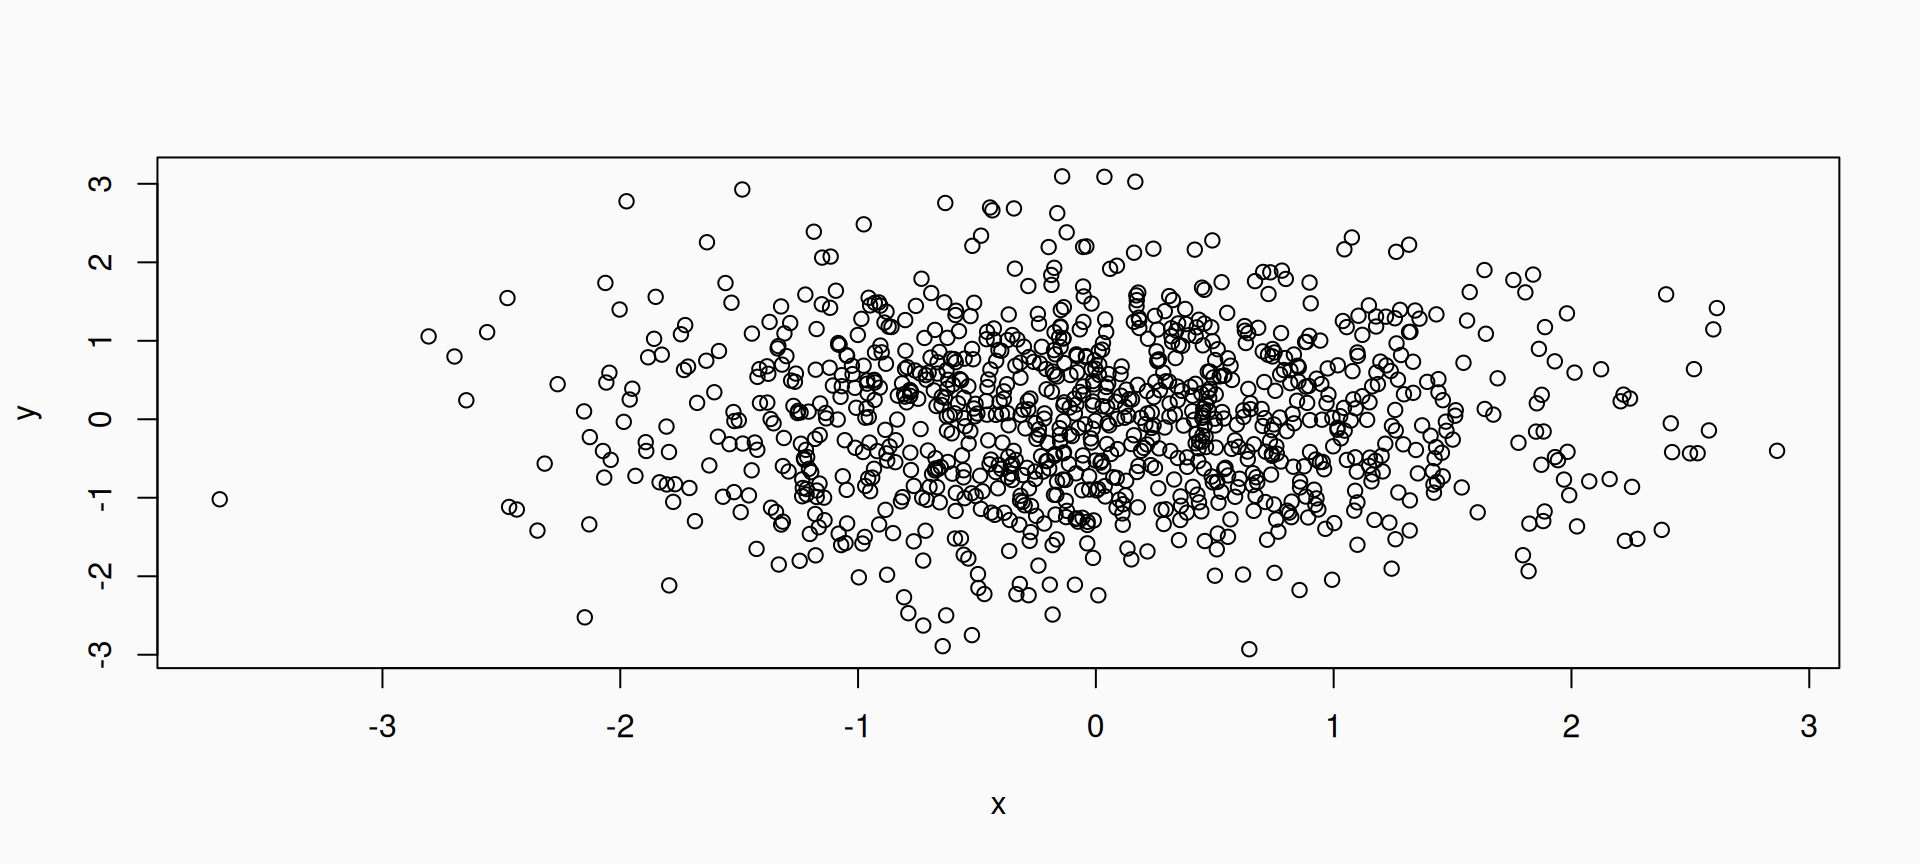
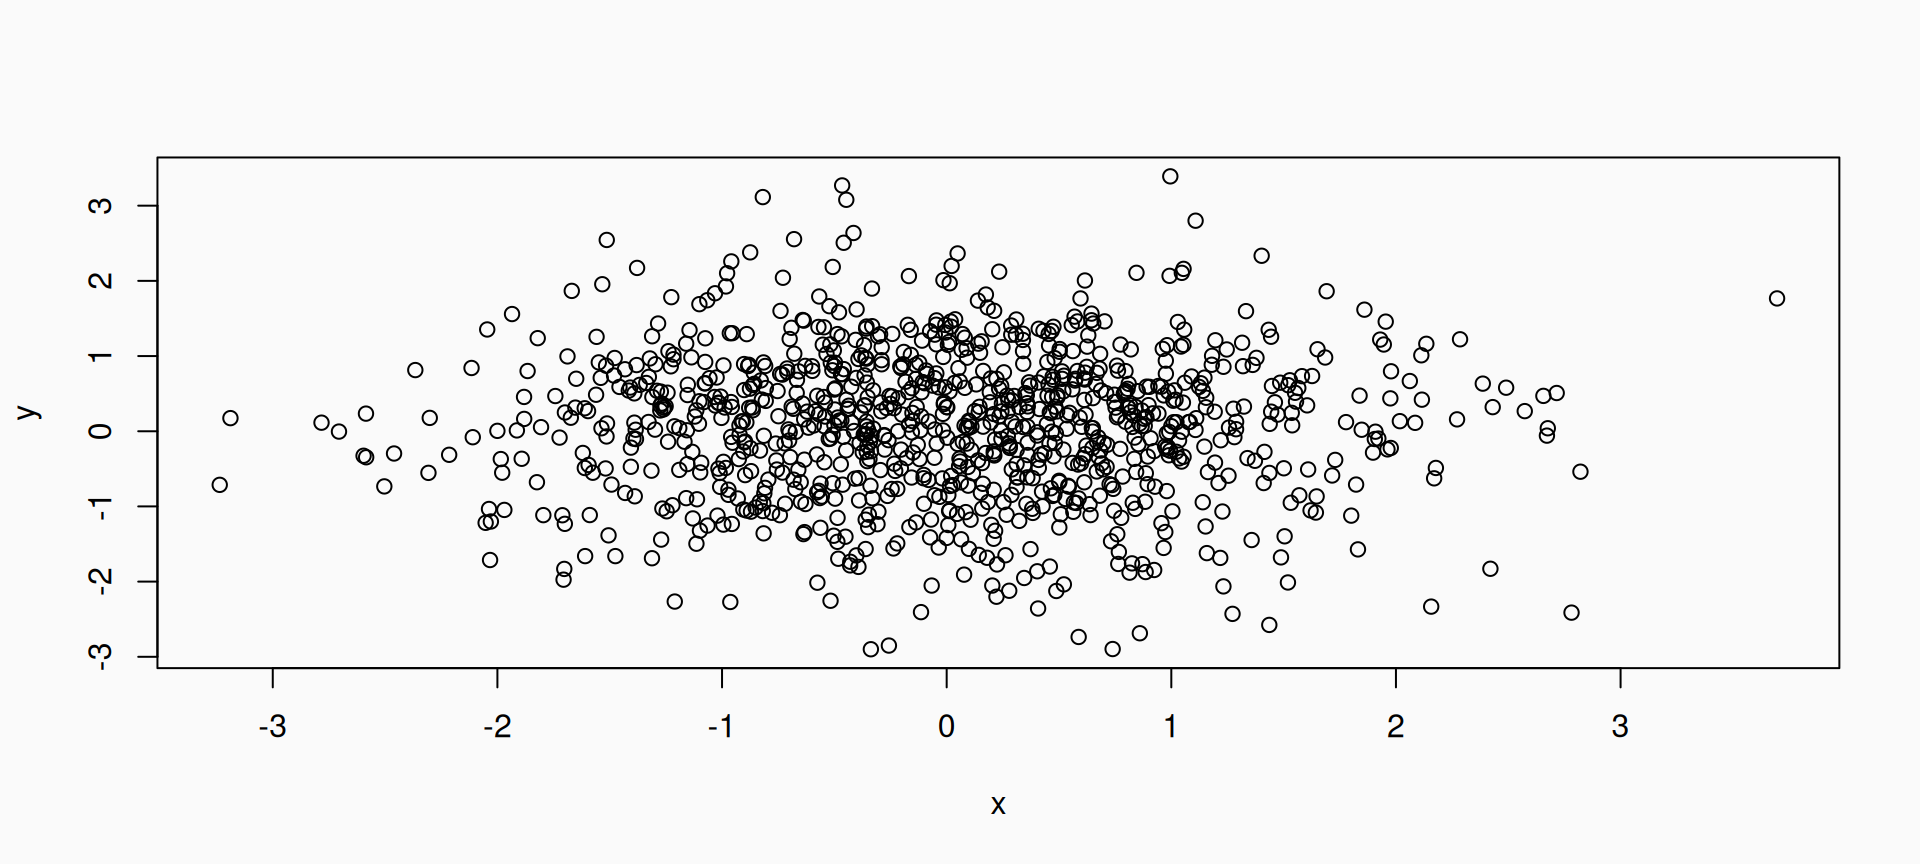
Fix paths and creates folders to ensure the website works

diff --git a/inst/quarto/gb-slides.html b/inst/quarto/gb-slides.html
@@ -103,9 +103,9 @@
     code span.vs { color: #20794d; } /* VerbatimString */
     code span.wa { color: #5e5e5e; font-style: italic; } /* Warning */
   </style>
-  <link rel="stylesheet" href="gb-slides_files/libs/revealjs/dist/theme/quarto-19f90d46a7d7b55cc2a475abd7d89113.css">
-  <link rel="stylesheet" href="_extensions/ucl/fonts.css">
-  <link rel="stylesheet" href="./assets/common.css">
+  <link rel="stylesheet" href="gb-slides_files/libs/revealjs/dist/theme/quarto-9939cc1c745a8e53c3914db3a274c595.css">
+  <link rel="stylesheet" href="./css/fonts.css">
+  <link rel="stylesheet" href="./css/common.css">
   <link href="gb-slides_files/libs/revealjs/plugin/quarto-line-highlight/line-highlight.css" rel="stylesheet">
   <link href="gb-slides_files/libs/revealjs/plugin/reveal-menu/menu.css" rel="stylesheet">
   <link href="gb-slides_files/libs/revealjs/plugin/reveal-menu/quarto-menu.css" rel="stylesheet">
@@ -275,7 +275,7 @@
   <link href="gb-slides_files/libs/rstudio_leaflet-1.3.1/rstudio_leaflet.css" rel="stylesheet">
   <script src="gb-slides_files/libs/leaflet-binding-2.2.3/leaflet.js"></script>
   <script type="ojs-define">
-  {"contents":[{"name":"actors","value":{"x":[-0.736550205757108,-0.703498615608773,-0.0555366844943888,-0.469748671768782,0.890901311254661,-0.242656248537264,-1.47663588523555,-0.946105785716161,-0.466473756550867,-0.0698744838353341,-1.37761802606163,0.144414760507318,-0.571444424079374,-1.17857842815937,-0.426692596543949,0.446705983605372,0.015471329937579,-0.474022176369689,-0.702700672251499,-1.64554501449226,-0.808950608807856,0.920300246887119,-0.603099092719225,0.589236039009695,1.21875822986642,1.35869162781285,1.72992521144808,2.13216848171943,0.832398423917676,-0.167707367143835,-0.408385660019645,-0.130496457511745,0.03616699599139,0.665300327207432,-2.62680187000163,0.0948449998289357,0.132950625575523,-0.966784104941283,0.751711295937609,-0.143663825101314,-1.0624561139652,-1.89241837341819,0.861168971440449,0.674400964725732,-0.434638169185952,0.936292533936455,-0.191053103199944,-0.705392070033884,-0.624561316783875,1.62483185183463,0.0321619107350223,0.650483477157282,-0.842050733560789,-0.752825720513799,-0.942082075650477,-0.8013515521252,1.40379217660434,0.812772851501177,1.11677456829575,-2.77570744047739,0.0273209110662436,0.760536804774313,-1.47392481754284,0.56267887483159,-0.179675573113048,-1.32333789016428,0.269521997201982,-0.217254958537265,-1.34434068235522,2.60144558577865,0.296747560516421,0.73593058186674,-0.161217076091041,-1.30653809555564,-0.505799654976852,0.287065497655725,-1.64062017820723,-1.25373883887425,0.218367633013812,0.621660334360687,0.188527785958609,0.0358521566112222,0.275069319206628,-0.718316567314086,0.804715571430734,0.345051761728505,-1.13662337215155,0.538329228379607,0.529767318851149,-1.33203909871606,-0.572042917281872,0.69839798197017,-0.0916732015260699,-0.396499384501032,0.655381162972911,-0.250620586851292,1.24195524985814,-0.411912915366062,0.382602882578845,1.8052065094708],"y":[-0.655453570984461,-0.848803029839779,-0.662260460324178,0.549356793741619,1.63874062639711,0.0249570278467064,1.59773859175283,-0.248723376209598,0.0107414170812199,-0.993340627190834,0.476913844518693,-0.533387006106391,-0.103162064291925,-0.485019690761483,0.308498986248391,0.117958811316265,0.194934850276428,0.936019078290492,-0.473080156357277,0.889905330174019,0.0436915327332632,-1.42310583788905,0.391442607071887,0.19864016023194,-1.69463001423204,-1.02931882939113,-0.581440289241653,1.64731564260344,0.182573720072379,1.02157080690467,-0.444039286351926,0.171066637084031,0.181207446796089,-0.40924815880317,-0.472717577480706,0.619084104100532,-0.0465271703250968,0.322515795545041,1.37560954556494,-0.522466225723521,-1.49901108894078,0.085083288957265,-0.613534543863203,-0.0781652589972574,0.853713956838748,2.1227619850649,-1.24098337049543,-0.0185188366282658,0.378699938646877,-1.8419233885409,-0.638562606024193,-0.234297488558761,-0.622569599482852,0.890510712193449,1.07660905462201,-0.147715022313349,-0.0251367492899564,0.241311039008931,-1.4121516066268,-0.315047055853211,-0.0748924999832279,-0.537977457848694,0.68234620250762,0.76824810543491,-0.997636985427926,0.464638756158423,1.08735488558593,-0.0406032640505595,-0.510506337103913,-0.555308633934189,-0.0685730789098897,1.29134662967927,-0.0317314801696395,-0.436722626784667,0.204144008807643,-0.0171652817874974,-0.0405176864414505,-0.24972416488519,-0.453645231819399,-2.18668432952992,-0.18045349953184,0.341671800867748,0.862724132180527,-0.883086551345485,0.599824832761929,-0.416156828643419,-0.0573157619121054,1.70938369894748,1.11520994611798,1.17402595969544,0.450090131424569,-1.51789800627509,-0.0862894937898453,0.769217000271055,2.44385365153038,0.530402116822762,-0.244892939458025,1.03178182493988,-0.869301902474661,0.0280849374179542]}}]}
+  {"contents":[{"name":"actors","value":{"x":[1.40259067649637,-0.429290095880401,0.880014613849481,1.33076868835439,0.0165125960818773,0.834608227601314,-1.27199283909243,-0.675307987673492,0.984920109909569,0.205013866658325,0.436883246527184,-0.480118170167845,0.17078408064019,-0.843306758294193,2.79417150572238,0.129154553415691,1.65482775519942,0.40164109893743,0.407831864022557,1.18428846444684,0.500669900722019,-0.231591264011183,0.241857436752451,1.38940654187094,0.498144994441498,0.80241084102092,-0.655177597149728,1.36108104824385,0.237884845616394,-0.760293728242877,0.934089328340017,-0.301442809862238,0.123952000520464,-0.810634595988314,-0.270833310245173,-0.849241007975501,-1.37286346829487,-0.649254200941535,0.954365591330467,-1.15469442750616,-0.832691075001616,-1.43597230132132,1.4454114748924,-1.46542906954377,-0.509216926206262,1.72845435114503,-1.08315927863093,0.832224309881029,-1.17112248436116,-1.53347262951591,-0.639662256643634,-2.12629642241883,1.13573015987553,-1.16201055505231,0.323071815143787,1.44059959812549,-0.933183642666509,-0.616057610197672,0.171433192636659,-0.469654210176934,1.95360838762584,-1.49128652059701,0.508704751003872,-0.466179901510649,0.979711198167577,-1.69856695778659,0.171257116826888,-1.36321842412852,-0.0776882863660992,-2.44563676628124,-0.399037427510818,0.898301810431688,0.580334407190919,0.0577209691799459,-0.855596914793349,0.344861451070325,1.38214579275784,1.44908831284464,-1.45775224548338,-0.309990480290062,0.552662309592955,0.26482050968042,-1.72645217604226,-0.908533342057977,0.198997010938386,-0.764111845595373,2.118811624569,-1.64122119242861,1.02784915535353,-1.06905657022526,-0.433657697901798,-0.938521242727666,-0.975899700388979,2.63285434745172,0.432798508778444,-1.58731447870077,-0.84221396953418,-0.306870069358808,-0.776307307123774,1.64463491923664],"y":[1.48582197967844,2.24521238376898,1.68754279133501,-1.16764728344325,0.248900903240166,-0.551590190197406,-0.0454934942320415,-1.15200943025356,0.116980755065336,0.89200191194945,0.493694823316231,-0.130911342151308,-0.623278071818439,0.467655567900305,-0.0621941445947301,-0.654553775326011,-0.242204920044664,1.23562481421172,-0.188783695364598,-2.33392997422634,-1.42556410755436,0.101539213175766,-1.5327211656713,-2.16456529039335,0.736113536291248,0.162622372129609,-0.472099740850184,0.9716020421598,-0.423145537808301,-1.73546571094963,0.329319213619775,0.468153743342591,-0.979962429644486,-1.18124263603024,-1.21013347203329,2.07719925950183,-0.218446876040785,1.97401210507674,1.05166634742923,-0.970676897386709,1.09909007664124,-0.480435436739836,1.2236047214754,-0.148177007705251,-2.34305739725815,-0.284750311774731,0.0521922255111048,0.767773119184444,-0.766689737480126,2.41740643203387,1.18297010672968,1.43841004933078,0.266354461937964,0.322619787614754,-0.305250454232559,0.883002106499914,0.366097681979564,0.834383907731318,-1.33975348856876,-0.487449363820905,1.32500622085749,0.338147468942907,-1.00539244337529,0.430215036486785,-1.98415452413105,-0.0904298238158537,-1.57307597076032,0.743214329242711,0.423291698224595,1.4742270849975,0.979687159537022,1.14555841707247,0.711823450999904,-1.09143523588454,-1.33533006661796,-1.10604409368111,-0.783216725456688,-0.301200333391787,0.719255681993729,-1.12857478933018,-0.0242704631616405,-0.515163146230526,0.00182471381594631,-1.14434001543185,-0.230379218540184,-0.828055347478726,-2.01121469526061,0.535333453907686,-0.731236282257347,-0.494103091324649,0.266010005357946,-2.01854356069723,1.45989520506484,1.0220609421019,0.648953447140247,-0.44066048520138,1.77442797579147,0.546774253664151,0.553172628697816,-0.0167215991998903]}}]}
   </script>
 </head>
 <body class="quarto-light">
@@ -307,7 +307,7 @@
 
 <br>
 
-<p style="margin-top:3vw!important;" class="date-conference">31 January 2026</p>
+<p style="margin-top:3vw!important;" class="date-conference">19 February 2026</p>
 
 <p style="margin:0px;" class="date-conference">The name of the session</p>
        <p style="margin:0px;" class="date-conference">The name of the conference, Where it is</p>
@@ -508,7 +508,7 @@ to the end of the slide, to ensure that the footer doesn’t interfere with the 
 <h1>Section title slide</h1>
 <p>Setting the background colour to a dark colour automatically changes the colour of the text to make it visible over a dark background!</p>
 <div class="footer-nobg">
-<p>© Gianluca Baio (UCL) &nbsp; | &nbsp; <a href="https://www.linkedin.com/in/gianluca-baio/" title="Follow me on LinkedIn"><i class="fa-brands fa-linkedin" aria-label="linkedin"></i></a> &nbsp; <a href="https://mas.to/@gianlubaio" title="Follow me on Mastodon"><i class="fa-brands fa-mastodon" aria-label="mastodon"></i></a> &nbsp; <a href="https://github.com/giabaio" title="Check out my repos"><i class="fa-brands fa-github" aria-label="github"></i></a> &nbsp; <a href="mailto:g.baio@ucl.ac.uk" title="Email me"><i class="fa-solid fa-envelope" aria-label="envelope"></i></a> &nbsp; <a href="https://gianluca.statistica.it" title="Visit my website"><i class="fa-brands fa-firefox" aria-label="firefox"></i></a> &nbsp; | &nbsp; A short title &nbsp; | &nbsp; A shorter title of the conference &nbsp; | &nbsp; 31 Jan 2026 </p>
+<p>© Gianluca Baio (UCL) &nbsp; | &nbsp; <a href="https://www.linkedin.com/in/gianluca-baio/" title="Follow me on LinkedIn"><i class="fa-brands fa-linkedin" aria-label="linkedin"></i></a> &nbsp; <a href="https://mas.to/@gianlubaio" title="Follow me on Mastodon"><i class="fa-brands fa-mastodon" aria-label="mastodon"></i></a> &nbsp; <a href="https://github.com/giabaio" title="Check out my repos"><i class="fa-brands fa-github" aria-label="github"></i></a> &nbsp; <a href="mailto:g.baio@ucl.ac.uk" title="Email me"><i class="fa-solid fa-envelope" aria-label="envelope"></i></a> &nbsp; <a href="https://gianluca.statistica.it" title="Visit my website"><i class="fa-brands fa-firefox" aria-label="firefox"></i></a> &nbsp; | &nbsp; A short title &nbsp; | &nbsp; A shorter title of the conference &nbsp; | &nbsp; 19 Feb 2026 </p>
 </div>
 </section>
 <section id="code-chunk-and-output-side-by-side" class="slide level2" data-auto-animate="true">
@@ -1879,8 +1879,8 @@ a_{21}&amp; =b_{21}&amp;
 <p>Include Jupyter widgets and htmlwidgets in your presentations</p>
 <div class="cell" data-layout-align="center">
 <div class="cell-output-display">
-<div class="leaflet html-widget html-fill-item" id="htmlwidget-0fd8a9ec5437bb004293" style="width:55%;height:480px;"></div>
-<script type="application/json" data-for="htmlwidget-0fd8a9ec5437bb004293">{"x":{"options":{"crs":{"crsClass":"L.CRS.EPSG3857","code":null,"proj4def":null,"projectedBounds":null,"options":{}}},"calls":[{"method":"addTiles","args":["https://{s}.tile.openstreetmap.org/{z}/{x}/{y}.png",null,null,{"minZoom":0,"maxZoom":18,"tileSize":256,"subdomains":"abc","errorTileUrl":"","tms":false,"noWrap":false,"zoomOffset":0,"zoomReverse":false,"opacity":1,"zIndex":1,"detectRetina":false,"attribution":"&copy; <a href=\"https://openstreetmap.org/copyright/\">OpenStreetMap<\/a>,  <a href=\"https://opendatacommons.org/licenses/odbl/\">ODbL<\/a>"}]},{"method":"addMarkers","args":[-36.852,174.768,null,null,null,{"interactive":true,"draggable":false,"keyboard":true,"title":"","alt":"","zIndexOffset":0,"opacity":1,"riseOnHover":false,"riseOffset":250},"The birthplace of R",null,null,null,null,{"interactive":false,"permanent":false,"direction":"auto","opacity":1,"offset":[0,0],"textsize":"10px","textOnly":false,"className":"","sticky":true},null]}],"limits":{"lat":[-36.852,-36.852],"lng":[174.768,174.768]}},"evals":[],"jsHooks":[]}</script>
+<div class="leaflet html-widget html-fill-item" id="htmlwidget-6cfc77fe81408a48afec" style="width:55%;height:480px;"></div>
+<script type="application/json" data-for="htmlwidget-6cfc77fe81408a48afec">{"x":{"options":{"crs":{"crsClass":"L.CRS.EPSG3857","code":null,"proj4def":null,"projectedBounds":null,"options":{}}},"calls":[{"method":"addTiles","args":["https://{s}.tile.openstreetmap.org/{z}/{x}/{y}.png",null,null,{"minZoom":0,"maxZoom":18,"tileSize":256,"subdomains":"abc","errorTileUrl":"","tms":false,"noWrap":false,"zoomOffset":0,"zoomReverse":false,"opacity":1,"zIndex":1,"detectRetina":false,"attribution":"&copy; <a href=\"https://openstreetmap.org/copyright/\">OpenStreetMap<\/a>,  <a href=\"https://opendatacommons.org/licenses/odbl/\">ODbL<\/a>"}]},{"method":"addMarkers","args":[-36.852,174.768,null,null,null,{"interactive":true,"draggable":false,"keyboard":true,"title":"","alt":"","zIndexOffset":0,"opacity":1,"riseOnHover":false,"riseOffset":250},"The birthplace of R",null,null,null,null,{"interactive":false,"permanent":false,"direction":"auto","opacity":1,"offset":[0,0],"textsize":"10px","textOnly":false,"className":"","sticky":true},null]}],"limits":{"lat":[-36.852,-36.852],"lng":[174.768,174.768]}},"evals":[],"jsHooks":[]}</script>
 </div>
 </div>
 <div class="footer">
@@ -2070,7 +2070,7 @@ a_{21}&amp; =b_{21}&amp;
     </div>
   <div class="quarto-auto-generated-content" style="display: none;">
 <div class="footer footer-default">
-<p>© Gianluca Baio (UCL) &nbsp; | &nbsp; <a href="https://www.linkedin.com/in/gianluca-baio/" title="Follow me on LinkedIn"><i class="fa-brands fa-linkedin" aria-label="linkedin"></i></a> &nbsp; <a href="https://mas.to/@gianlubaio" title="Follow me on Mastodon"><i class="fa-brands fa-mastodon" aria-label="mastodon"></i></a> &nbsp; <a href="https://github.com/giabaio" title="Check out my repos"><i class="fa-brands fa-github" aria-label="github"></i></a> &nbsp; <a href="mailto:g.baio@ucl.ac.uk" title="Email me"><i class="fa-solid fa-envelope" aria-label="envelope"></i></a> &nbsp; <a href="https://gianluca.statistica.it" title="Visit my website"><i class="fa-brands fa-firefox" aria-label="firefox"></i></a> &nbsp; | &nbsp; A short title &nbsp; | &nbsp; A shorter title of the conference &nbsp; | &nbsp; 31 Jan 2026 </p>
+<p>© Gianluca Baio (UCL) &nbsp; | &nbsp; <a href="https://www.linkedin.com/in/gianluca-baio/" title="Follow me on LinkedIn"><i class="fa-brands fa-linkedin" aria-label="linkedin"></i></a> &nbsp; <a href="https://mas.to/@gianlubaio" title="Follow me on Mastodon"><i class="fa-brands fa-mastodon" aria-label="mastodon"></i></a> &nbsp; <a href="https://github.com/giabaio" title="Check out my repos"><i class="fa-brands fa-github" aria-label="github"></i></a> &nbsp; <a href="mailto:g.baio@ucl.ac.uk" title="Email me"><i class="fa-solid fa-envelope" aria-label="envelope"></i></a> &nbsp; <a href="https://gianluca.statistica.it" title="Visit my website"><i class="fa-brands fa-firefox" aria-label="firefox"></i></a> &nbsp; | &nbsp; A short title &nbsp; | &nbsp; A shorter title of the conference &nbsp; | &nbsp; 19 Feb 2026 </p>
 </div>
 </div></div>
 

diff --git a/inst/quarto/_extensions/ucl/ucl-new.scss b/inst/quarto/_extensions/ucl/ucl-new.scss
@@ -67,6 +67,10 @@ Conversion rule for fonts (based on choosing $presentation-font-size-root: 20pt;
 /* Formats the colour for the subtitle in the title page */
 .reveal section#title-slide h3 {
   color: #fafafa;
+  margin-left: 11vw;
+  margin-right: 3%;
+  text-align: left;
+  font: UCLSans-SemiBold;
 }
 
 /* This is necessary to remove the box if the h1 happens in a slide with background */
